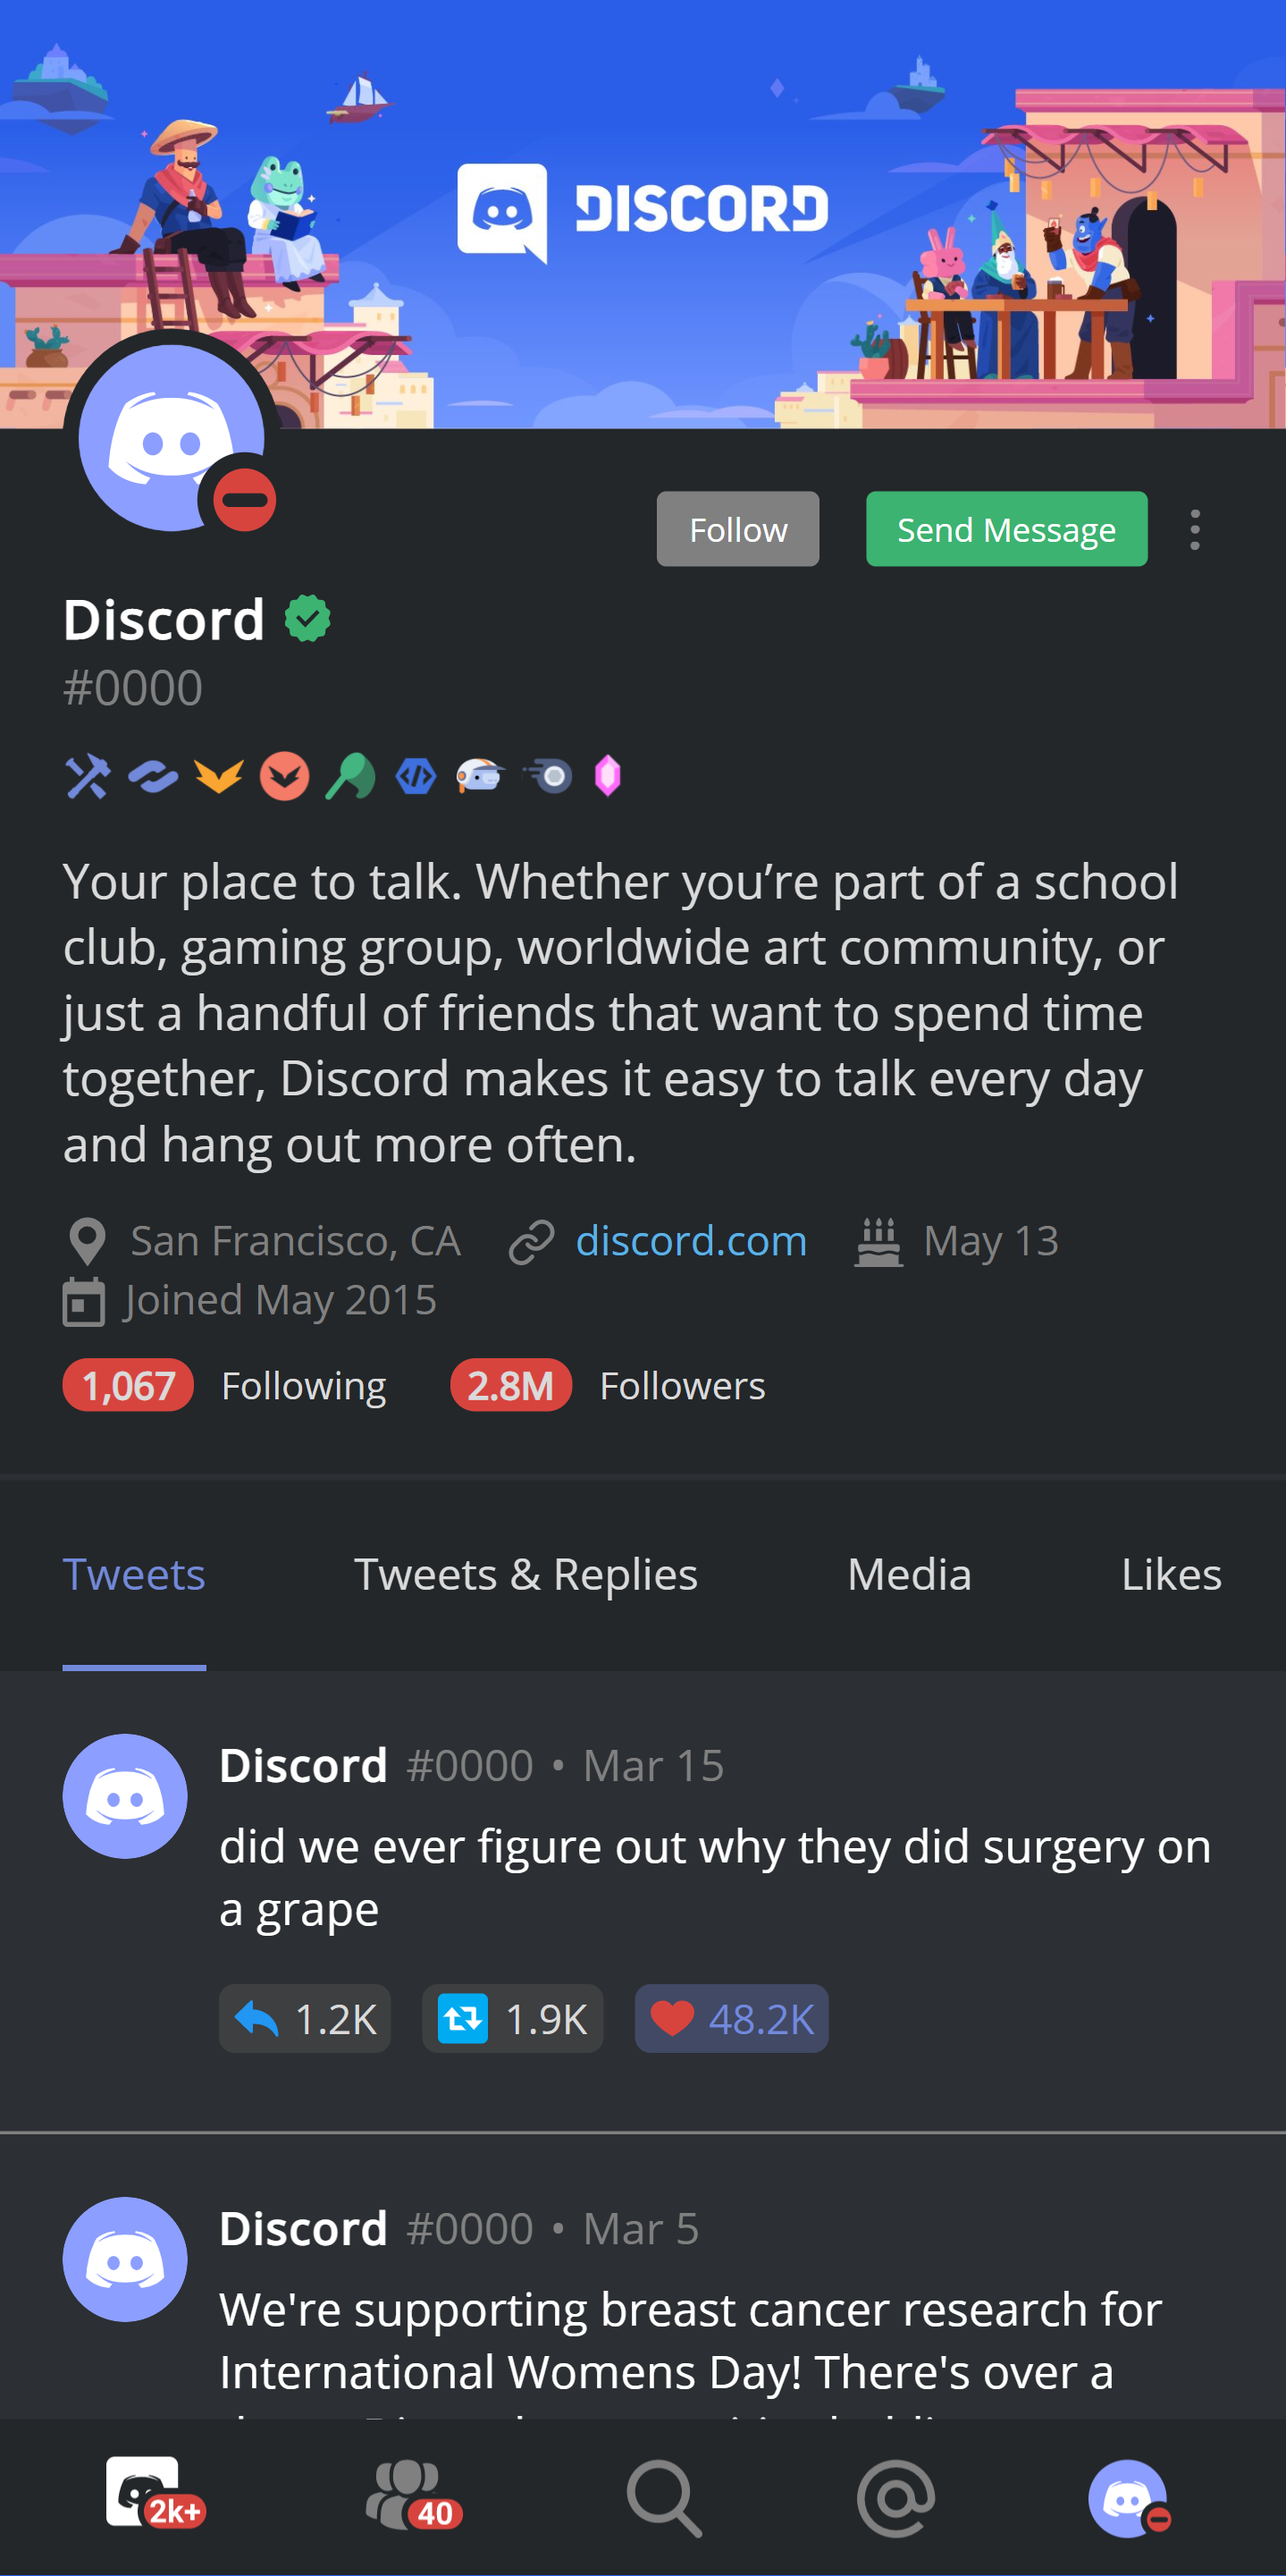
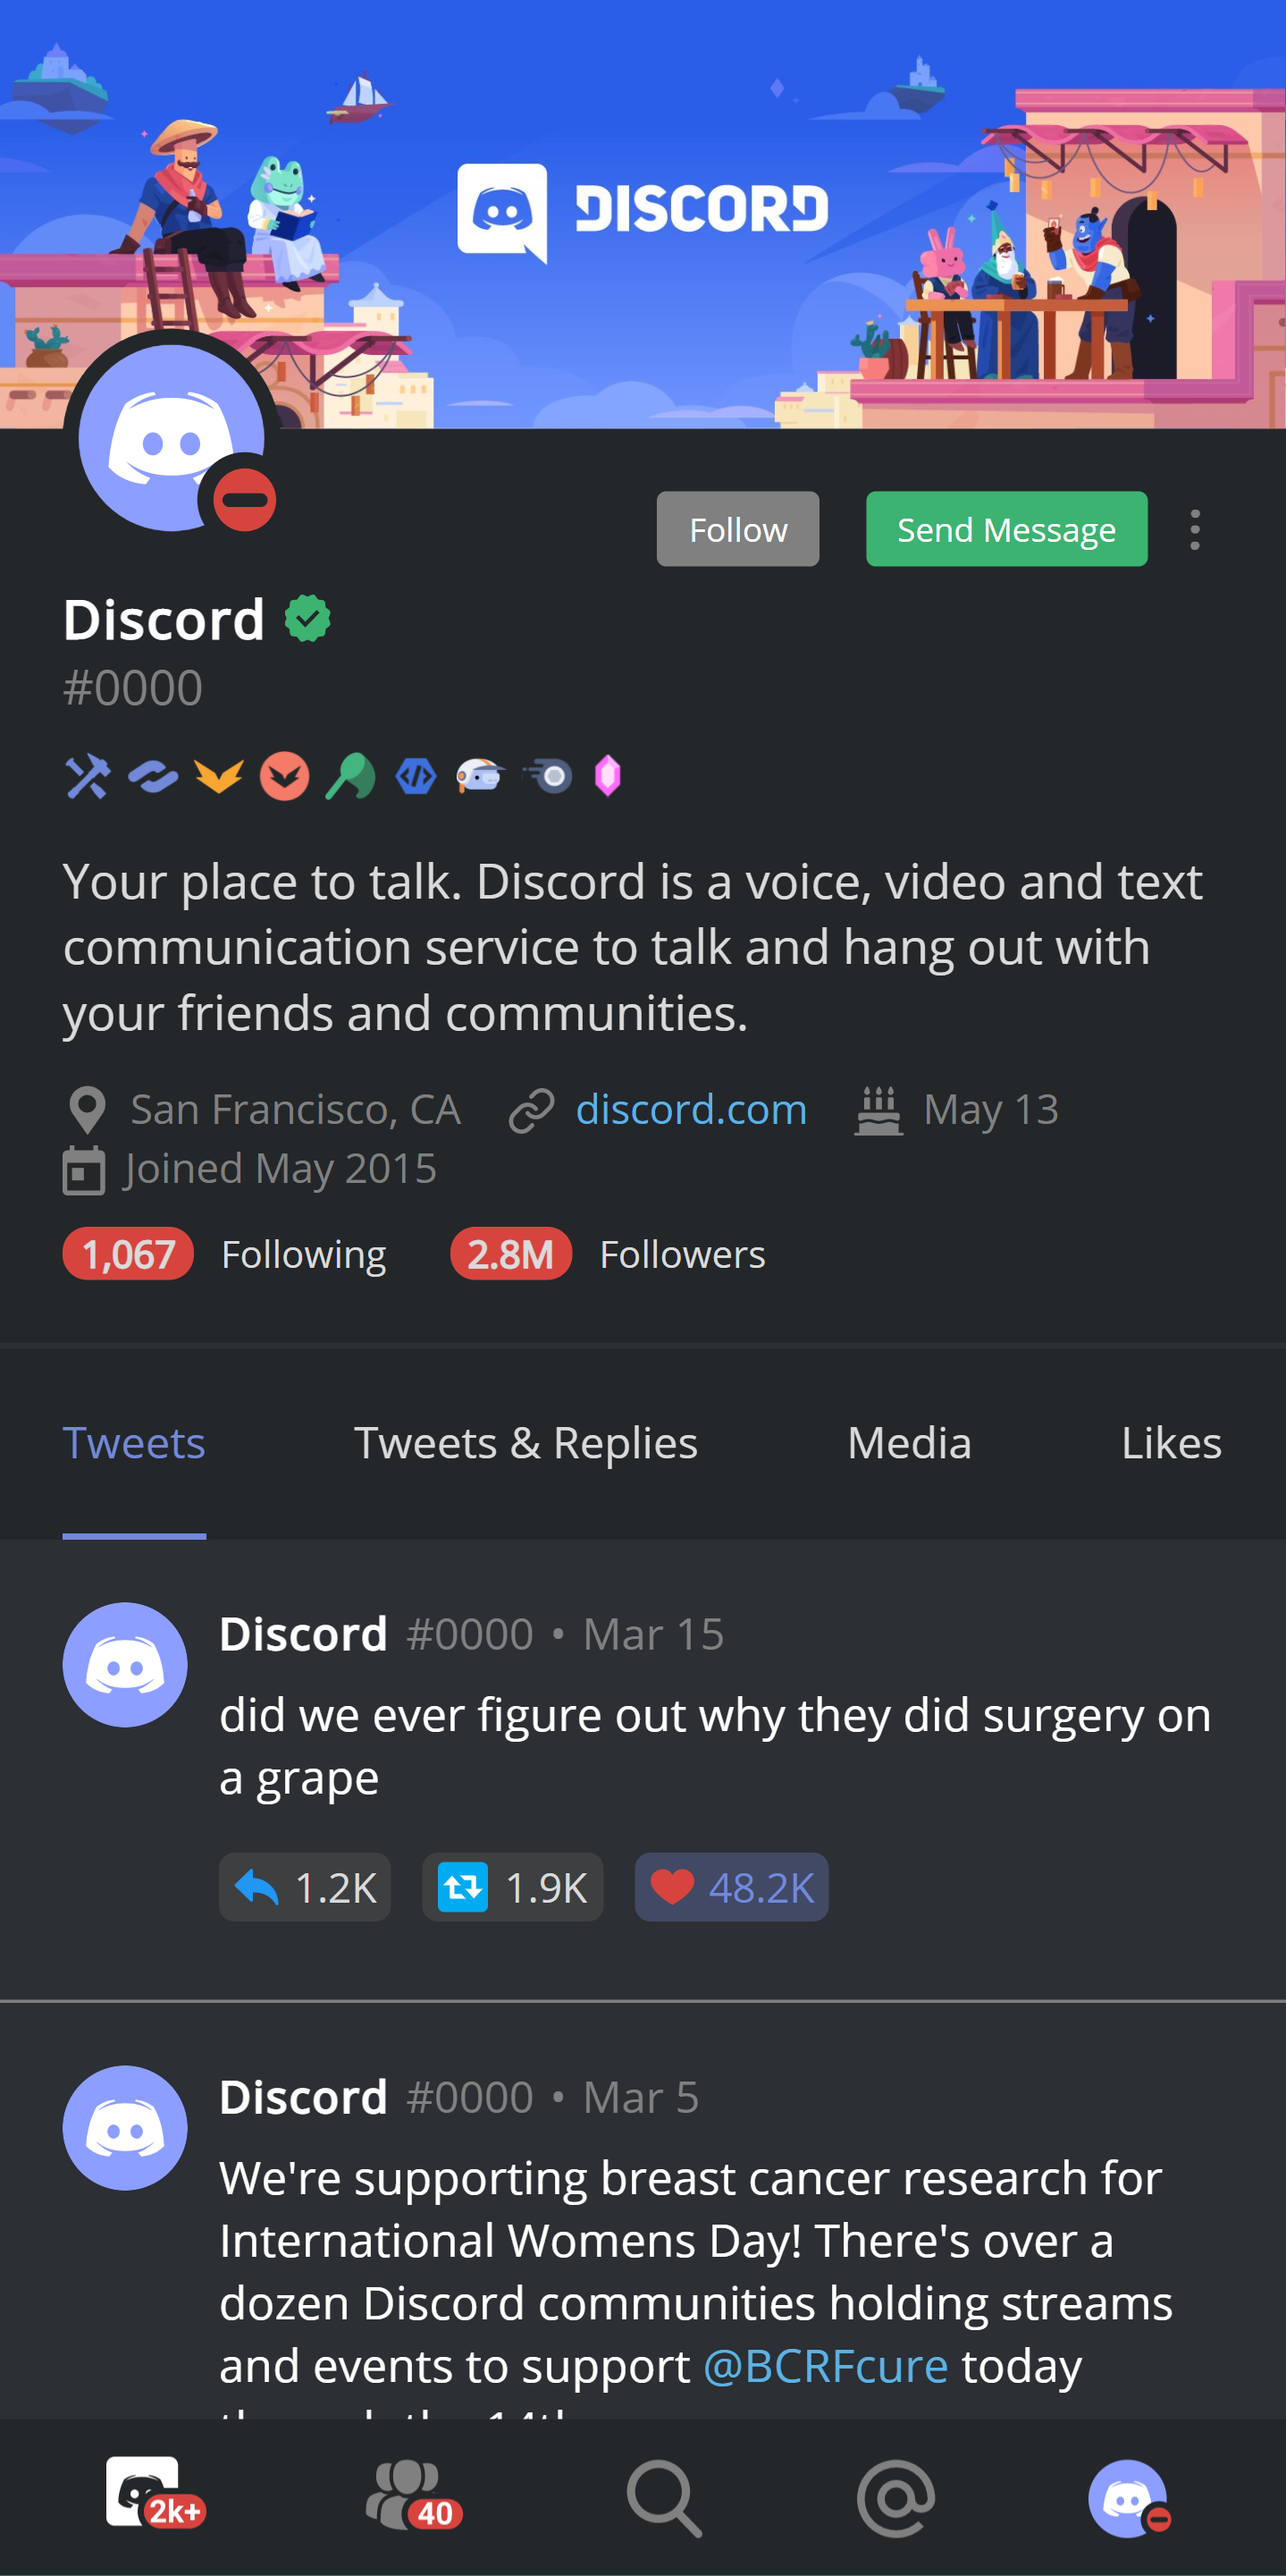
Update bio to match discord's twitter

diff --git a/index.html b/index.html
@@ -51,9 +51,8 @@
                         <img src="./img/discord-badges.svg" alt="Discord Badges">
                     </div>
                     <div class="bio">
-                        <span>Your place to talk. Whether you’re part of a school club, gaming group, worldwide art
-                            community, or just a handful of friends that want to spend time together, Discord makes it
-                            easy to talk every day and hang out more often.</span>
+                        <span>Your place to talk. Discord is a voice, video and text communication service to talk and hang out with your friends and
+                        communities.</span>
                     </div>
                     <div class="location-link-bday-joined">
                         <div class="location">
